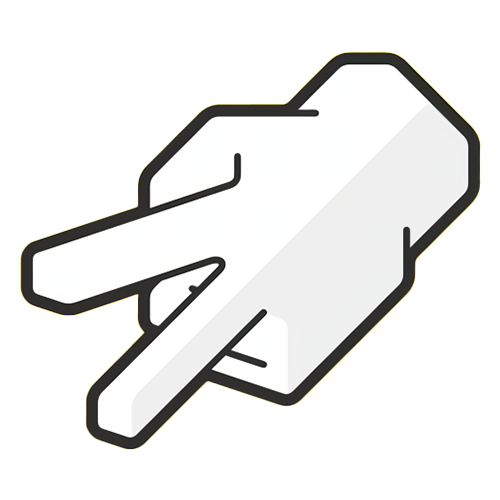
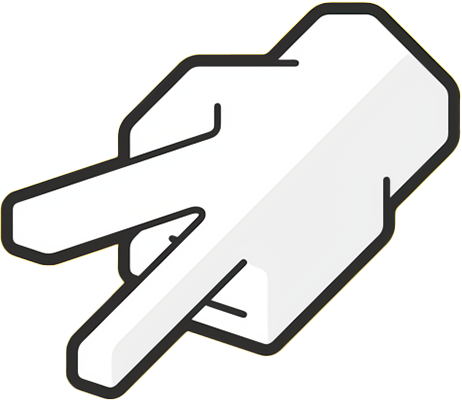
feat: add flexbox to buttons with responsive size to viewport

Changed region(s): [[0.0, 0.0, 1.0, 1.0]]

diff --git a/style.css b/style.css
@@ -1,0 +1,15 @@
+body {
+    /* margin: 5rem 20%; */
+}
+
+div.buttons-player {
+    display: flex;
+
+    justify-content: space-evenly;
+    align-items: flex-start;
+}
+
+.buttons-player > button > img {
+    height: 20vw;
+    width: 20vw;
+}

diff --git a/index.html b/index.html
@@ -3,6 +3,7 @@
   <head>
     <title>Rock Paper Scissors</title>
     <meta charset="utf-8">
+    <link rel="stylesheet" href="./style.css">
     <script src="./script.js" defer></script>
   </head>
 
